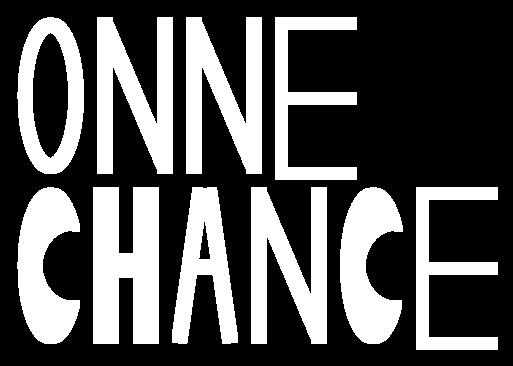
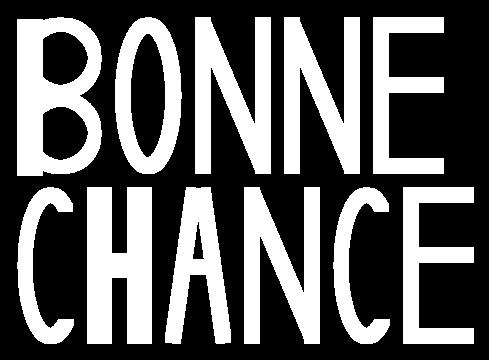
Commit
Commit

diff --git a/src/main/java/Letter/LetterFactory.java b/src/main/java/Letter/LetterFactory.java
@@ -2,6 +2,9 @@ package Letter;
 
 import Point.Point2d;
 import Shape.*;
+import Shape.Rectangle;
+
+import java.awt.*;
 
 public final class LetterFactory {
     final static Double maxHeight = 150.0;
@@ -45,7 +48,15 @@ public final class LetterFactory {
      * @return BaseShape containing the letter B
      */
     public static BaseShape create_B() {
-        return null;
+        Rectangle rectangle = new Rectangle(stripeThickness , maxHeight);
+        Circle circle = new Circle(halfMaxHeight);
+        rectangle.translate(rectangle.getCoords(), new Point2d(7.0, -0.2));
+        circle.remove(new Circle(maxWidth));
+        circle.translate(circle.getCoords(), new Point2d(38.0, -40.0));
+        rectangle.add(circle);
+        circle.translate(circle.getCoords(), new Point2d(0.0, 75.0));
+        rectangle.add(circle);
+        return rectangle;
     }
 
     /** TODO
@@ -54,14 +65,12 @@ public final class LetterFactory {
      */
     public static BaseShape create_C() {
         Ellipse el1 = new Ellipse(maxWidth, maxHeight);
-        Ellipse el2 = new Ellipse(maxWidth,halfMaxHeight);
+        el1.remove(new Ellipse(maxWidth-stripeThickness, maxHeight-stripeThickness));
+        Rectangle rectangle = new Rectangle(maxWidth, maxHeight-2*stripeThickness);
+        rectangle.translate(rectangle.getCoords(), new Point2d(halfMaxWidth, 0.0));
+        el1.remove(rectangle);
+        return el1;
 
-        Point2d point1 = new Point2d(-15.0,0.0);
-        Point2d point2 = new Point2d(4.0,0.0);
-
-        el1.translate(el1.getCoords(), point1);
-        el2.translate(el2.getCoords(), point2);
-        return el1.remove(el2);
     }
 
     /** TODO
@@ -69,8 +78,8 @@ public final class LetterFactory {
      * @return BaseShape containing the letter E
      */
     public static BaseShape create_E() {
-        Rectangle left = new Rectangle(halfStripeThickness - 3,maxHeight);
-        Rectangle up = new Rectangle(halfStripeThickness - 3, halfMaxHeight);
+        Rectangle left = new Rectangle(halfStripeThickness,maxHeight);
+        Rectangle up = new Rectangle(halfStripeThickness, halfMaxWidth + 20);
         Rectangle middle = up.clone();
         Rectangle down = up.clone();
 
@@ -79,9 +88,9 @@ public final class LetterFactory {
         middle.rotate(middle.getCoords(), -Math.PI/2);
         down.rotate(down.getCoords(), -Math.PI/2);
 
-        left.translate(left.getCoords(), new Point2d(-halfMaxWidth-4, 0.0));
-        up.translate(up.getCoords(), new Point2d(0.0, -halfMaxHeight));
-        down.translate(down.getCoords(), new Point2d(0.0, halfMaxHeight));
+        left.translate(left.getCoords(), new Point2d(-halfMaxWidth-4, halfStripeThickness + 2.0));
+        up.translate(up.getCoords(), new Point2d(0.0, -(halfMaxHeight - halfStripeThickness - 6)));
+        down.translate(down.getCoords(), new Point2d(0.0, halfMaxHeight - halfStripeThickness + 16));
 
 
         left.add(up);

diff --git a/src/test/java/Letter/LetterTest.java b/src/test/java/Letter/LetterTest.java
@@ -18,7 +18,7 @@ public class LetterTest {
         tesseract.setLanguage("fra");
 
         LetterPlacer letterPlacer = new LetterPlacer();
-//        letterPlacer.placeNext('B');
+        letterPlacer.placeNext('B');
         letterPlacer.placeNext('O');
         letterPlacer.placeNext('N');
         letterPlacer.placeNext('N');
